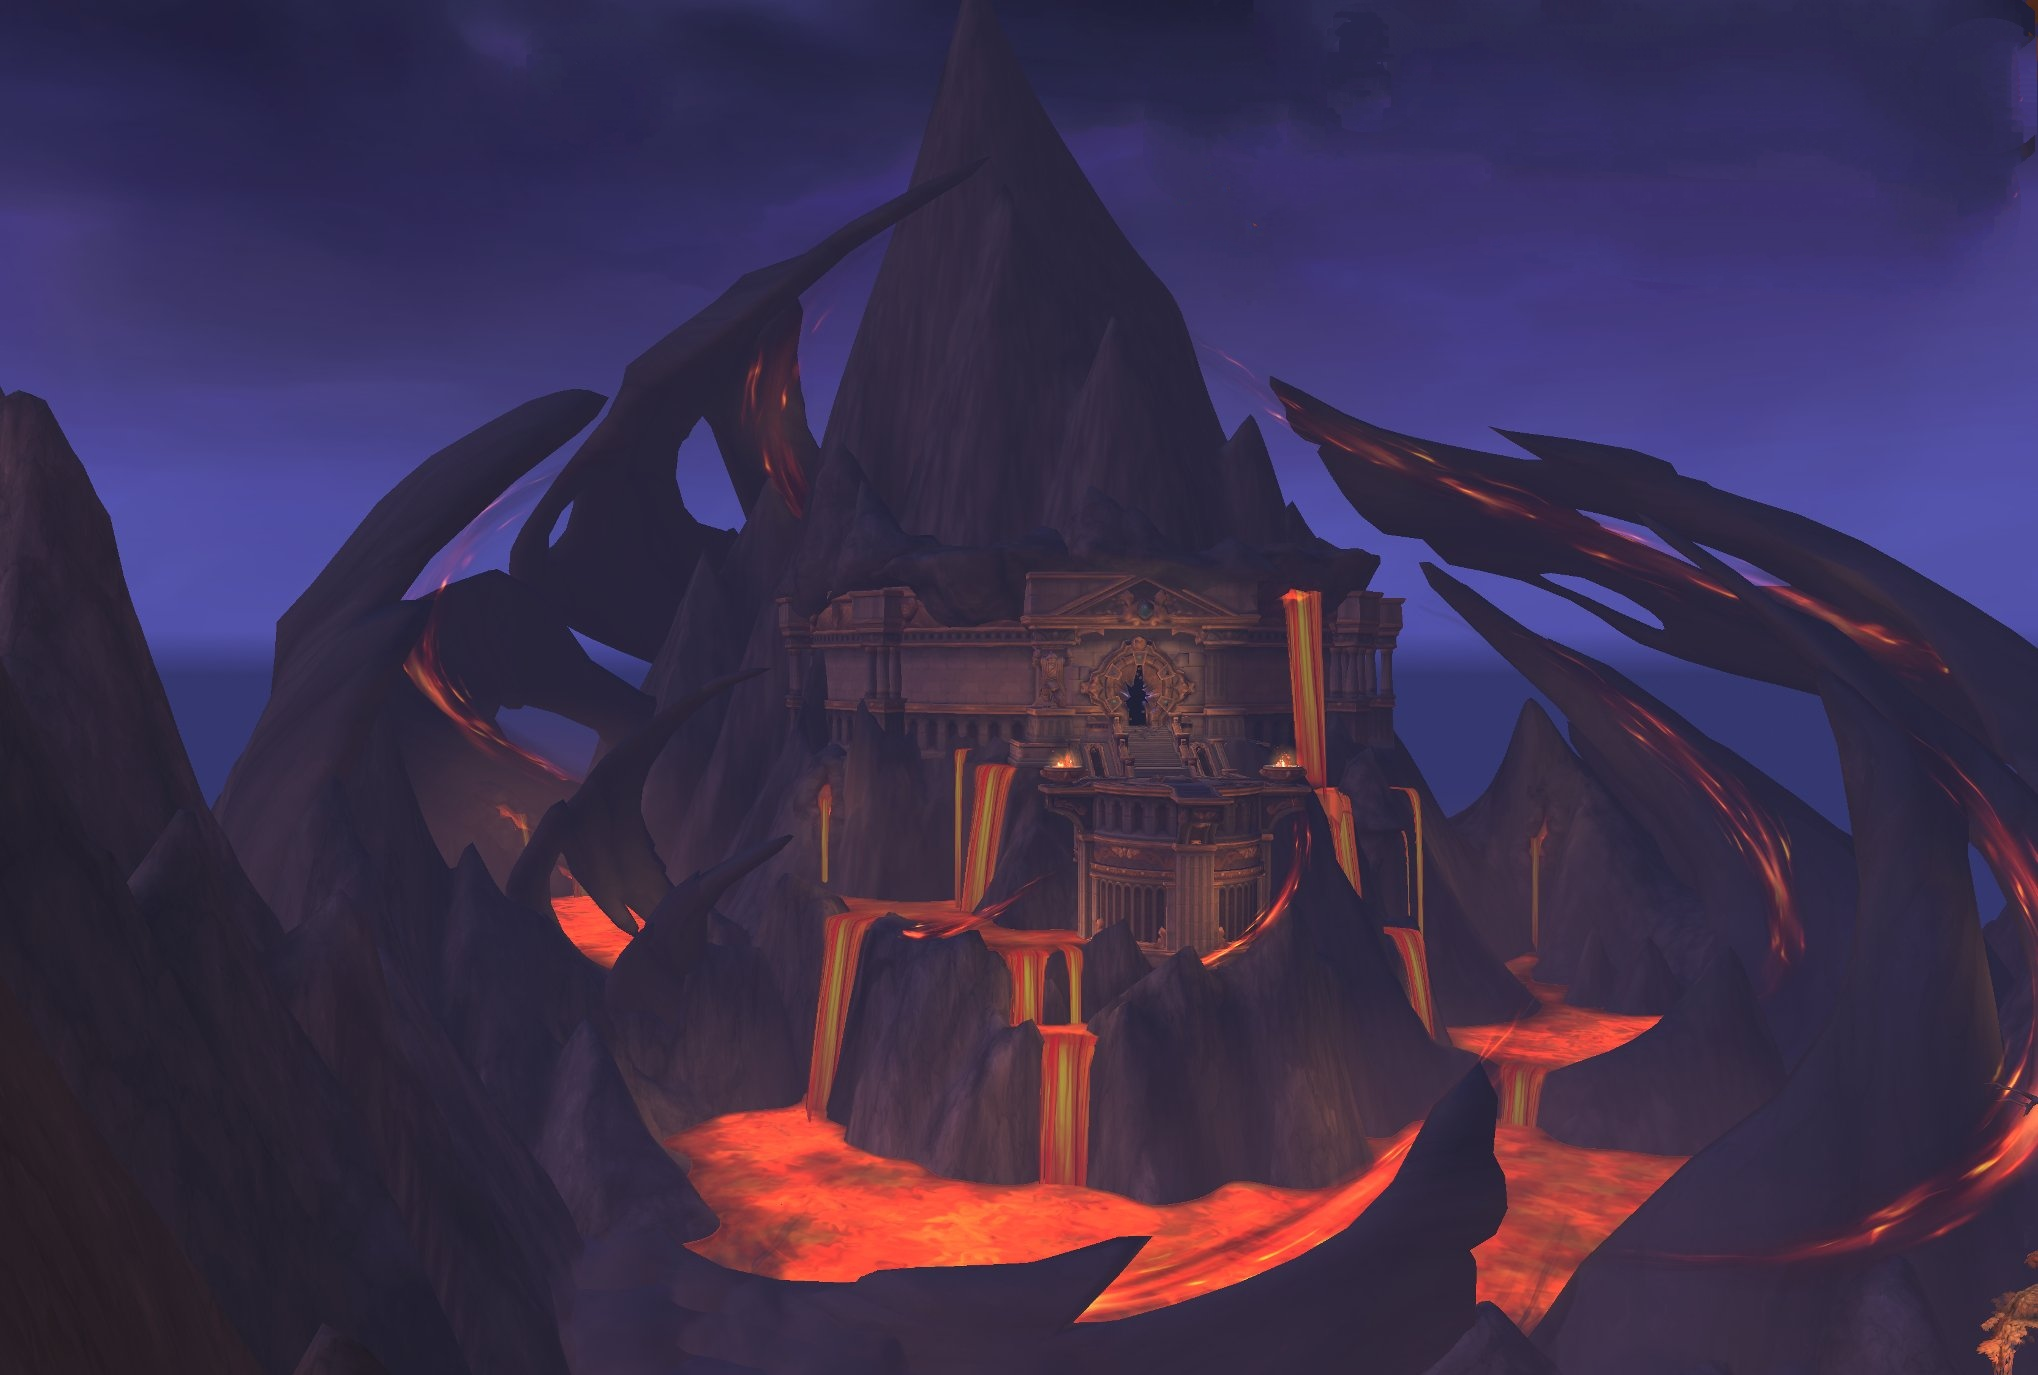
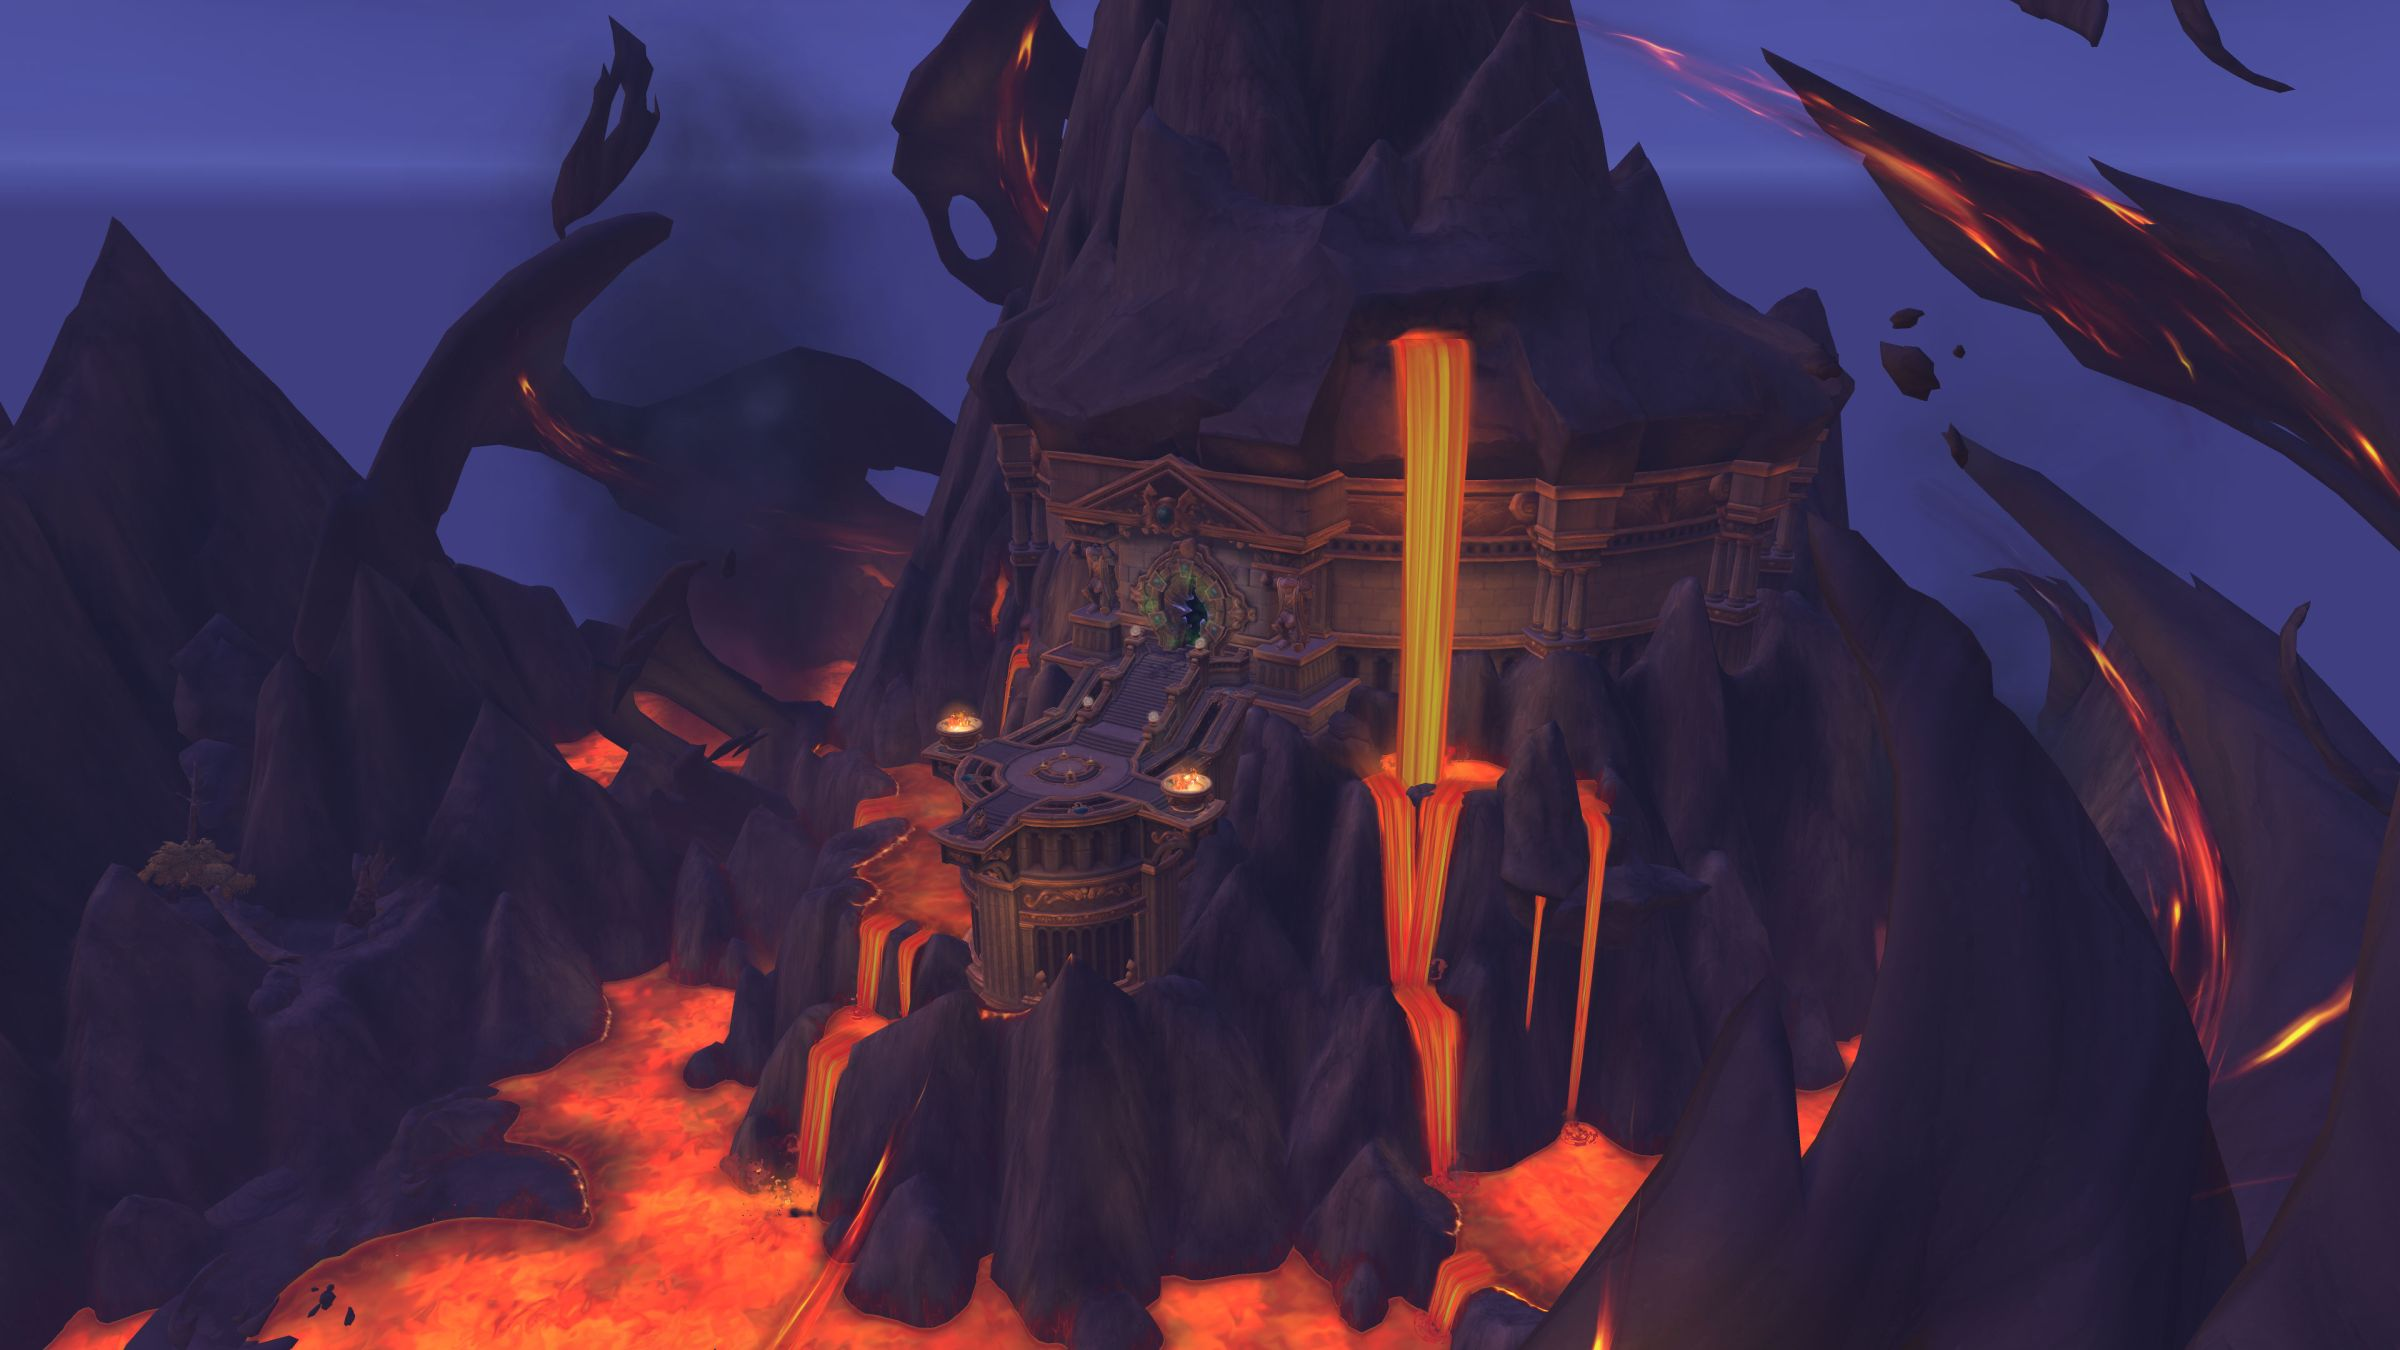
update Vault boss images from Blizz post

diff --git a/src/CHANGELOG.tsx b/src/CHANGELOG.tsx
@@ -67,6 +67,7 @@ import SpellLink from 'interface/SpellLink';
 import { TALENTS_SHAMAN } from 'common/TALENTS';
 
 export default [
+  change(date(2022, 12, 7), 'Update Vault of the Incarnates boss images.', ToppleTheNun),
   change(date(2022, 12, 6), 'Add stat enhancements for some potions and phials.', ToppleTheNun),
   change(date(2022, 12, 6), 'Add data for and analyze Dragonflight food.', ToppleTheNun),
   change(date(2022, 12, 6), 'Update flask analysis to check phials instead.', ToppleTheNun),

diff --git a/src/game/raids/vaultoftheincarnates/BroodkeeperDiurna.ts b/src/game/raids/vaultoftheincarnates/BroodkeeperDiurna.ts
@@ -1,6 +1,6 @@
 import { Boss } from 'game/raids';
 
-import Background from './images/BroodkeeperDiurna.png';
+import Background from './images/broodkeeper.jpg';
 
 const BroodkeeperDiurna: Boss = {
   id: 2614,

diff --git a/src/game/raids/vaultoftheincarnates/PrimalCouncil.ts b/src/game/raids/vaultoftheincarnates/PrimalCouncil.ts
@@ -1,6 +1,6 @@
 import { Boss } from 'game/raids';
 
-import Background from './images/PrimalCouncil.png';
+import Background from './images/primalcouncil.jpg';
 
 const PrimalCouncil: Boss = {
   id: 2590,

diff --git a/src/game/raids/vaultoftheincarnates/KurogGrimtotem.ts b/src/game/raids/vaultoftheincarnates/KurogGrimtotem.ts
@@ -1,6 +1,6 @@
 import { Boss } from 'game/raids';
 
-import Background from './images/KurogGrimtotem.png';
+import Background from './images/kurog.jpg';
 
 const KurogGrimtotem: Boss = {
   id: 2605,

diff --git a/src/game/raids/vaultoftheincarnates/Raszageth.ts b/src/game/raids/vaultoftheincarnates/Raszageth.ts
@@ -1,6 +1,6 @@
 import { Boss } from 'game/raids';
 
-import Background from './images/Raszageth.png';
+import Background from './images/raszageth.jpg';
 
 const Raszageth: Boss = {
   id: 2607,

diff --git a/src/game/raids/vaultoftheincarnates/Sennarth.ts b/src/game/raids/vaultoftheincarnates/Sennarth.ts
@@ -1,6 +1,6 @@
 import { Boss } from 'game/raids';
 
-import Background from './images/Sennarth.png';
+import Background from './images/sennarth.jpg';
 
 const Sennarth: Boss = {
   id: 2592,

diff --git a/src/game/raids/vaultoftheincarnates/Dathea.ts b/src/game/raids/vaultoftheincarnates/Dathea.ts
@@ -1,6 +1,6 @@
 import { Boss } from 'game/raids';
 
-import Background from './images/Dathea.png';
+import Background from './images/dathea.jpg';
 
 const Dathea: Boss = {
   id: 2635,

diff --git a/src/game/raids/vaultoftheincarnates/Eranog.ts b/src/game/raids/vaultoftheincarnates/Eranog.ts
@@ -1,6 +1,6 @@
 import { Boss } from 'game/raids';
 
-import Background from './images/Eranog.png';
+import Background from './images/eranog.jpg';
 
 const Eranog: Boss = {
   id: 2587,

diff --git a/src/game/raids/vaultoftheincarnates/Terros.ts b/src/game/raids/vaultoftheincarnates/Terros.ts
@@ -1,6 +1,6 @@
 import { Boss } from 'game/raids';
 
-import Background from './images/Terros.png';
+import Background from './images/terros.jpg';
 
 const Terros: Boss = {
   id: 2639,
